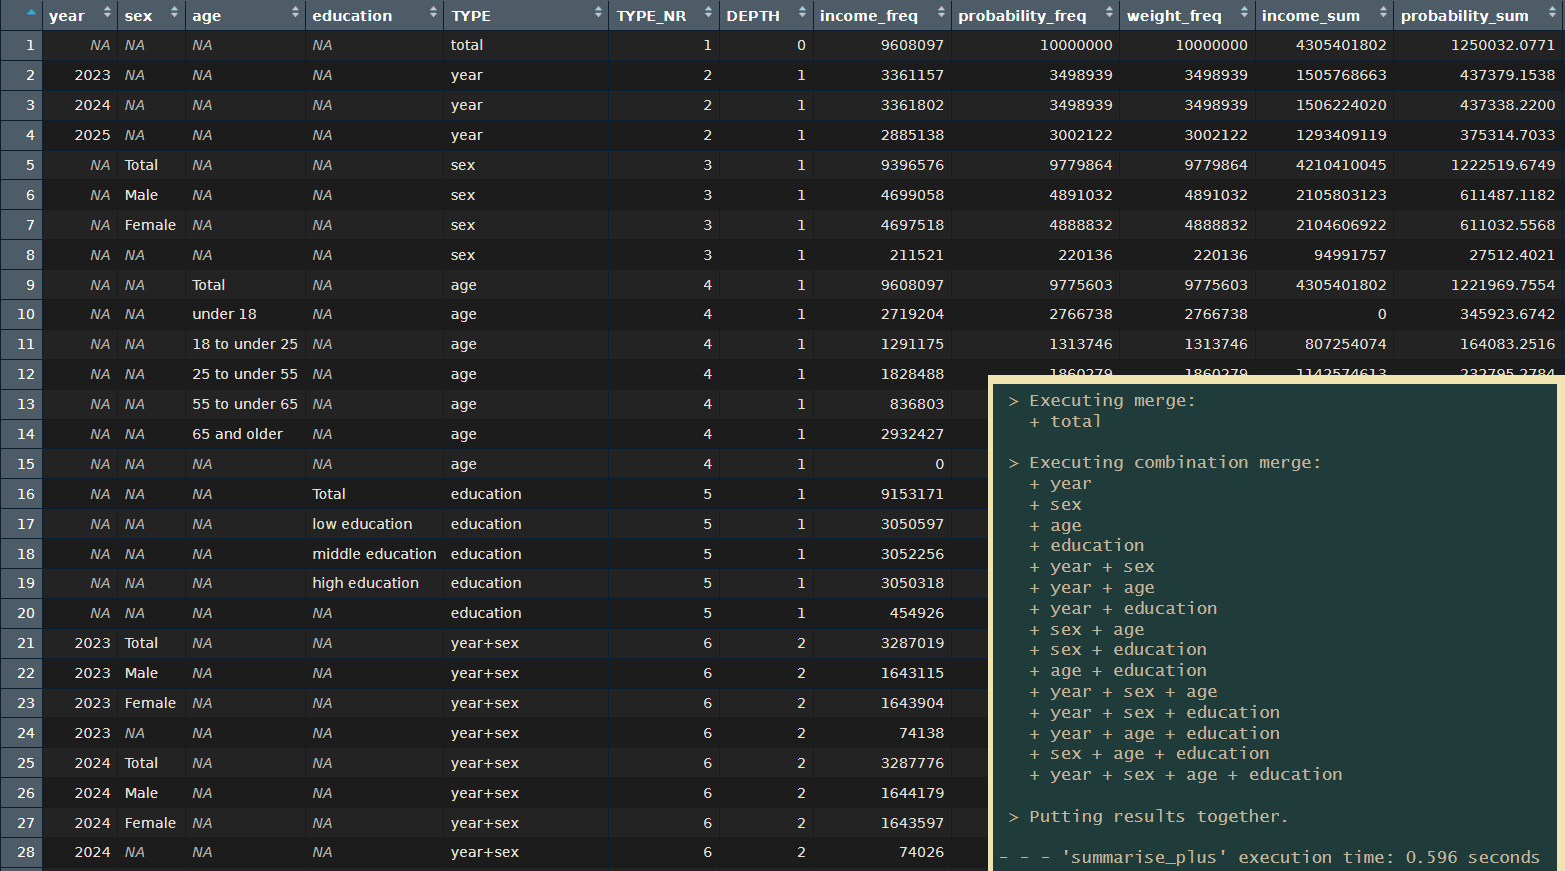
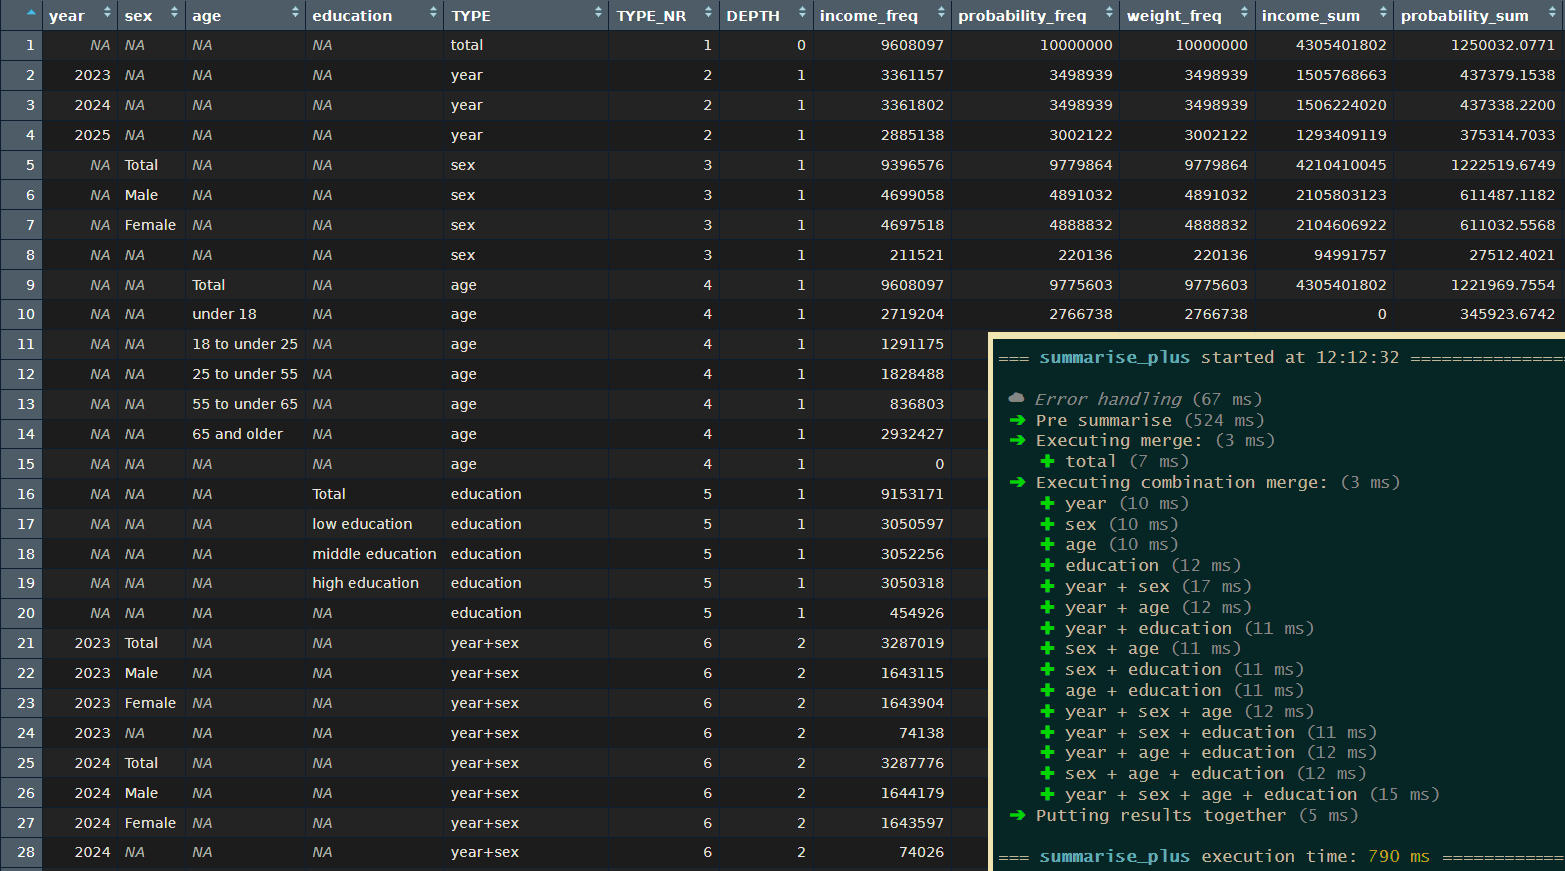
qol 1.3.1 - v2
* Message time stamps are now drawn in a lighter grey to enhance visibility on darker themes.
* Updated README screenshot.

Changed region(s): [[0.6134, 0.372, 1.0, 1.0]]

diff --git a/cran-comments.md b/cran-comments.md
@@ -5,6 +5,10 @@ Last CRAN release was on 18.04.2026.
 
 * `combine_into_workbook()`: Titles and footnotes are now styled again.
 
+### Additionally
+
+* Message time stamps are now drawn in a lighter grey to enhance visibility on darker themes 
+
 
 ## R CMD check results
 

diff --git a/NEWS.md b/NEWS.md
@@ -4,6 +4,10 @@
 
 * `combine_into_workbook()`: Titles and footnotes are now styled again. (18.04.2026)
 
+### Additionally
+
+* Message time stamps are now drawn in a lighter grey to enhance visibility on darker themes (20.04.2026)
+
 # qol 1.3.0
 
 ### New functions
